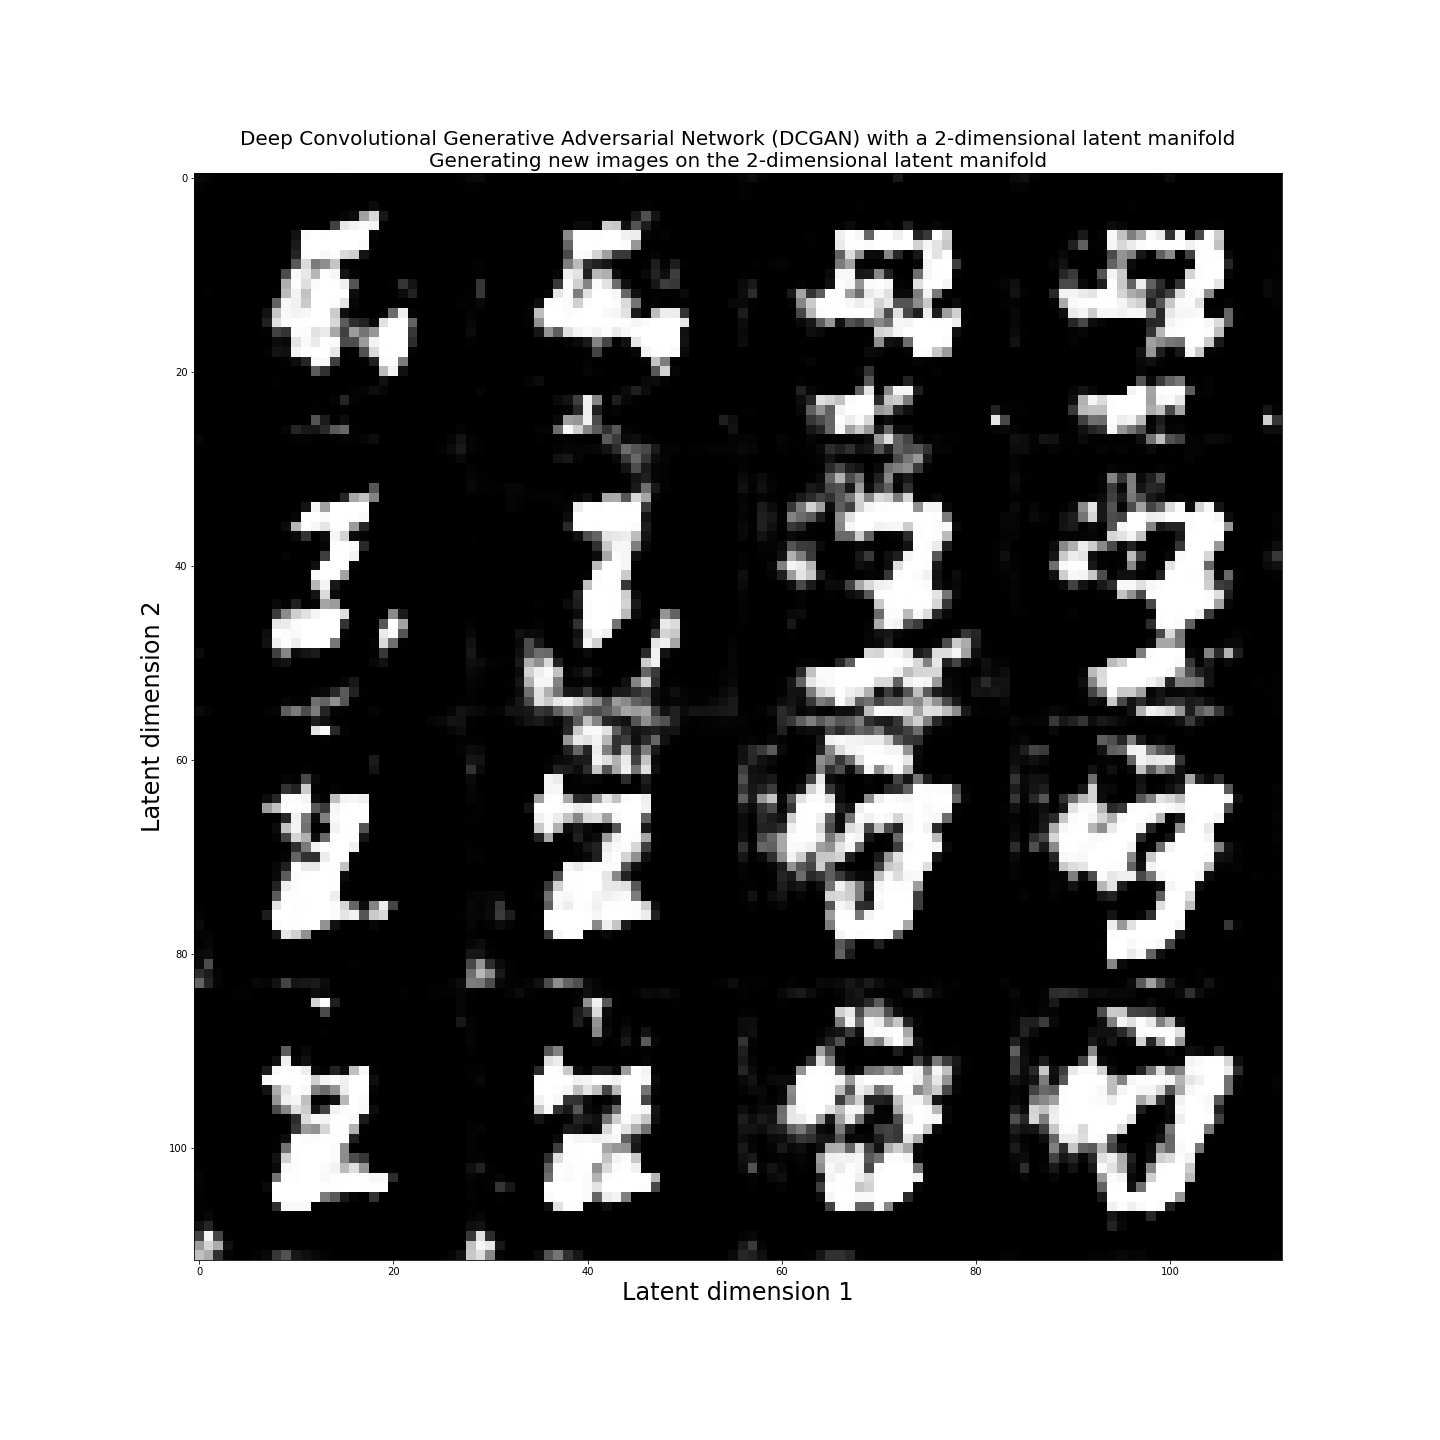
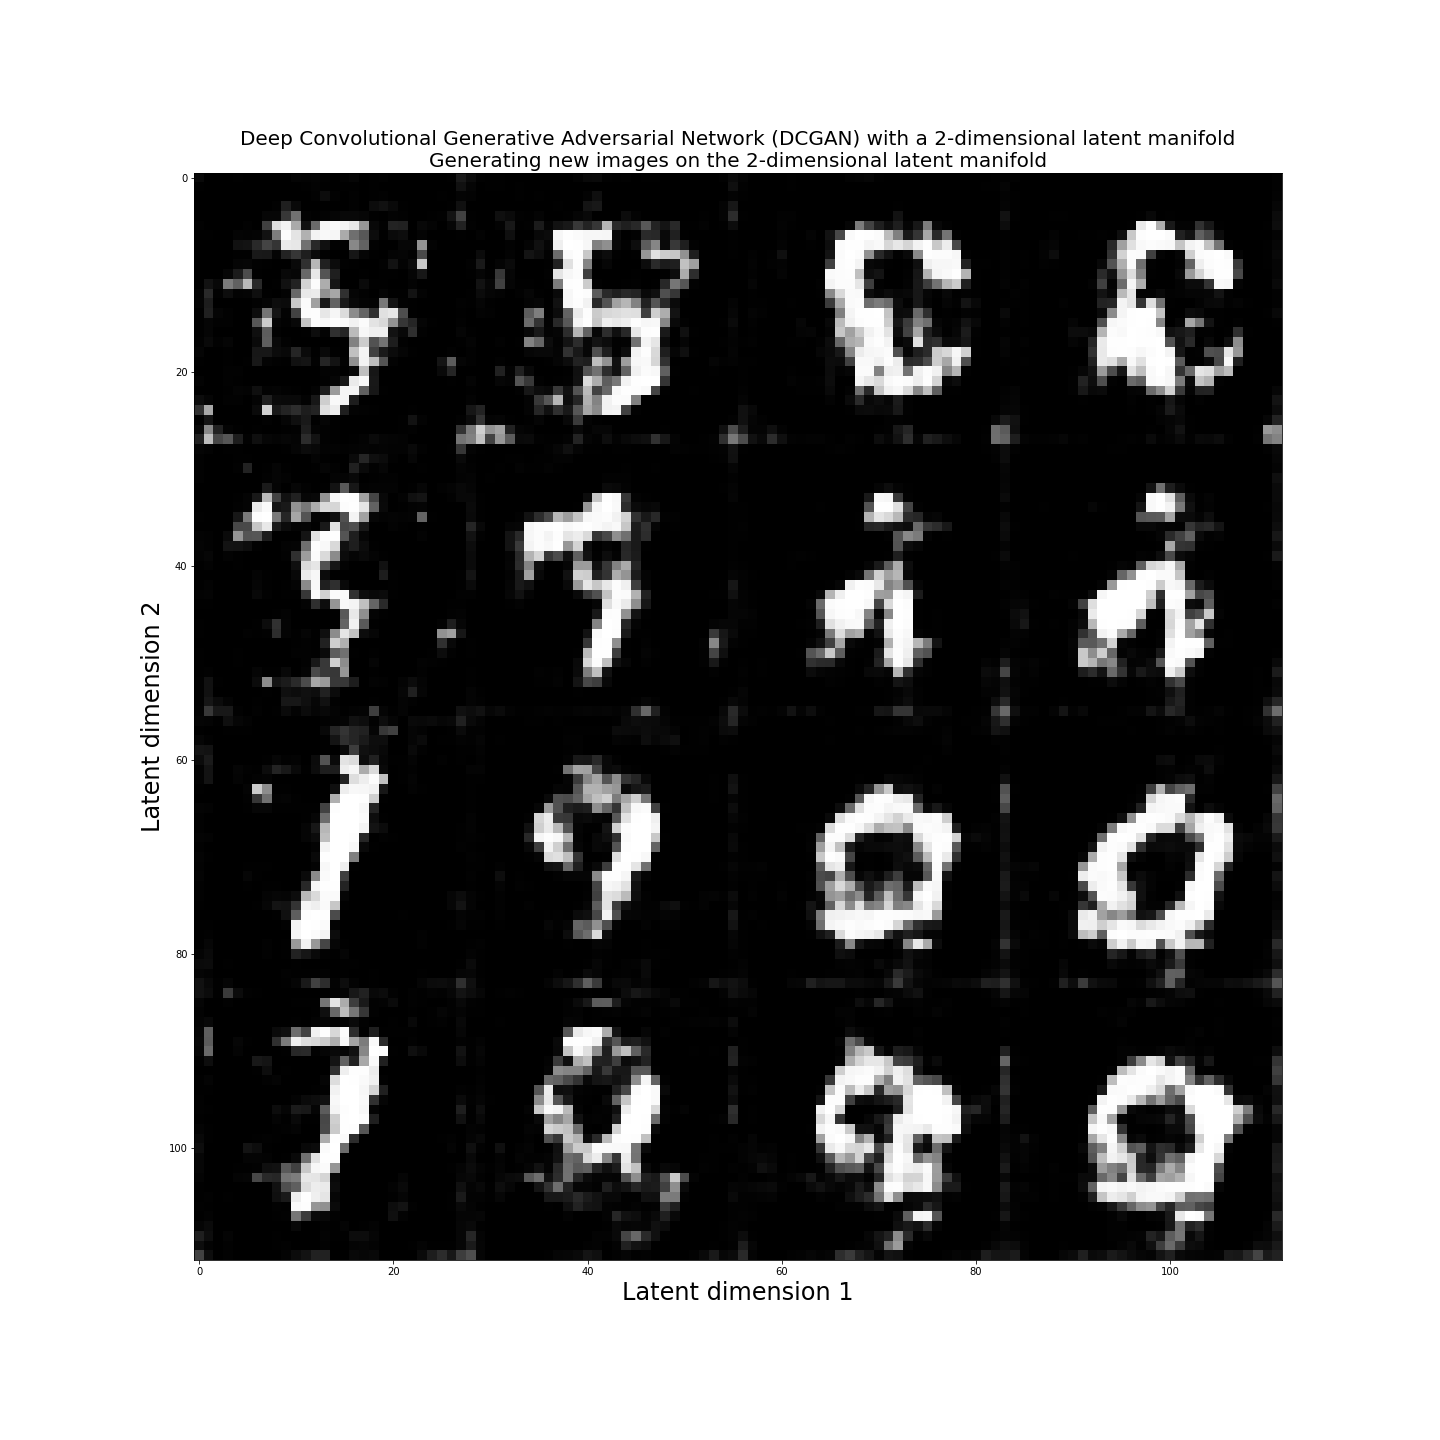
Nearly there with MNIST.

diff --git a/Java/src/main/java/org/deeplearning4j/dl4jGAN.java b/Java/src/main/java/org/deeplearning4j/dl4jGAN.java
@@ -49,7 +49,7 @@ public class dl4jGAN {
     private static final int labelIndex = 784;
     private static final int numFeatures = 784;
     private static final int numClasses = 10;
-    private static final int numEpochs = 50;
+    private static final int numEpochs = 100;
     private static final int numGenSamples = 20; // This will be a grid so effectively we get {numGenSamples * numGenSamples} samples.
     private static final int imageHeight = 28;
     private static final int imageWidth = 28;
